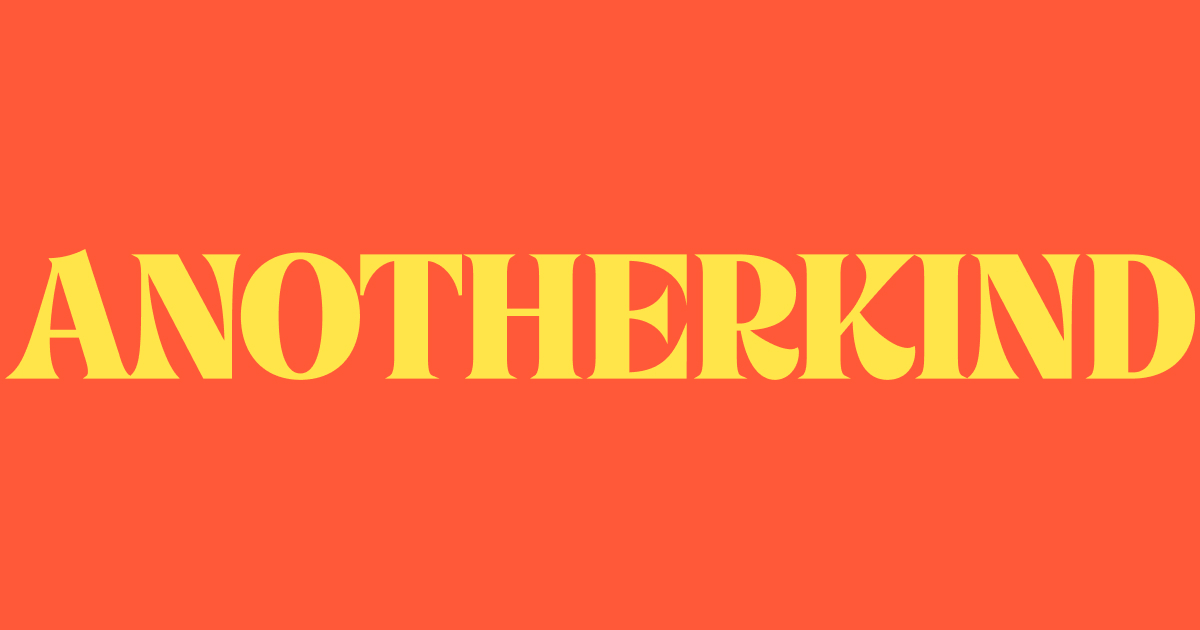
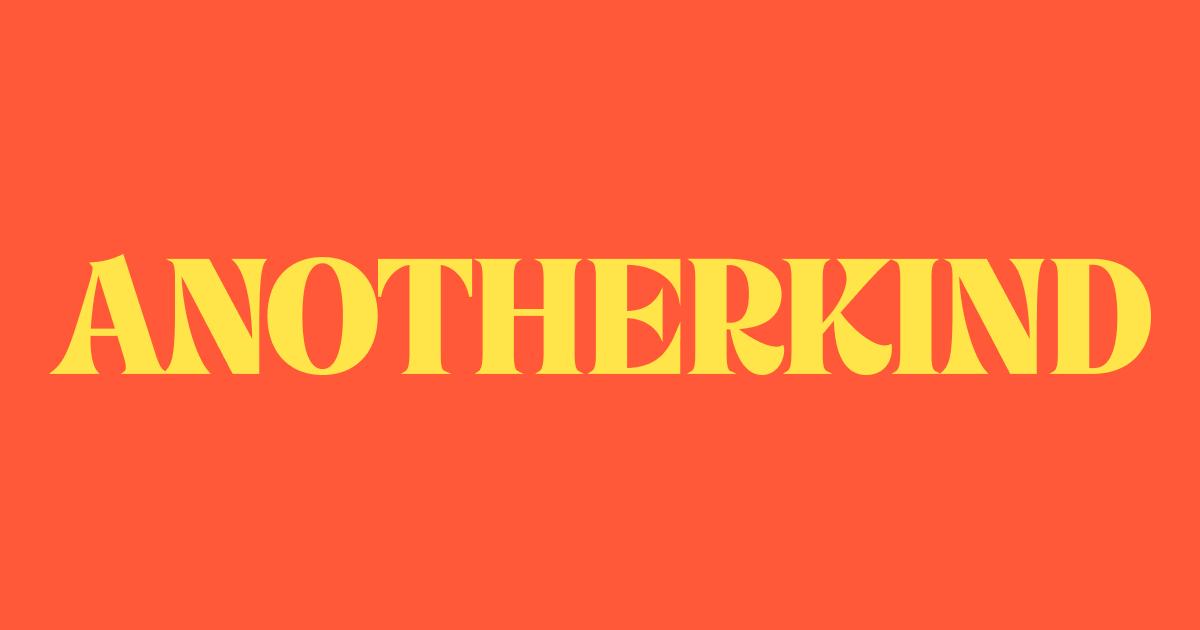
mob menu

Changed region(s): [[0.0, 0.3921, 1.0, 0.6032]]

diff --git a/pages/privacy.js b/pages/privacy.js
@@ -20,34 +20,63 @@ export default function Privacy() {
           initial="initial"
           animate="enter"
           exit="exit"
+          className="flex flex-wrap"
         >
-          <m.main className="pb-12 md:pb-16 xl:pb-24 pt-[100px] lg:pt-[110px] xl:pt-[120px]">
+          <m.main className="w-full pb-12 md:pb-16 xl:pb-24 pt-[100px] lg:pt-[110px] xl:pt-[120px]">
             <m.article variants={fade}>
               <Container>
-                <h1 className="text-[13.5vw] md:text-[9vw] lg:text-[8.5vw] leading-[0.8] md:leading-[0.8] lg:leading-[0.8] pb-0 w-[95%] mb-8 lg:mb-16 xl:mb-20">Privacy Policy</h1>
+                <h1 className="text-[13.5vw] md:text-[9vw] lg:text-[8.5vw] leading-[0.8] md:leading-[0.8] lg:leading-[0.8] pb-0 w-[95%] mb-12 md:mb-16 lg:mb-20">Privacy Policy</h1>
 
-                <div className="grid grid-cols-2 mb-[18vw] lg:mb-[10vw]">
-                  <div className="col-span-2 lg:col-span-1 mb-5 lg:mb-0">
-                    <div className="relative overflow-hidden rounded-2xl">
-                      <ImageScale image="/images/journal/journal-inner.jpg" w={1297} h={930} />
-                    </div>
-                  </div>
-                  <div className="col-span-2 lg:col-span-1">
-                    <div className="content w-[90%] lg:w-[65%] lg:max-w-[520px] lg:mx-auto text-lg/[1.28] lg:text-xl/[1.28] break-words">
-                      <p>30.09.2022</p>
-                      <p>The Greyfriar&rsquo;s project is a labour of love for PRB&rsquo;s conservation specialists Lucy Wilson, Joe Player and Joris Vreeswijk Working with Heritage Lincolnshire, City of Lincoln Council and the entire design team, planning and scheduled monument consent have been secured for this beautiful 13th century friary in Lincoln.</p>
-                      
-                      <p>It&rsquo;s been amazing, as always, working with Sarah Sorrell BSc (Hons) C.Build.E MCABE to ensure that inclusivity and accessibility were absolutely fundamental to the design; promoting accessible heritage for all.</p>
-                      
-                      <p>We loved contributing to the latest edition of Context - issued by the . Read more about the approach here: <a href="https://ihbconline.co.uk/context/173/index.html" className="underline" target="_blank" rel="noopener noreferrer">https://ihbconline.co.uk/context/173/index.html</a></p>
-                    </div>
+                <div className="mb-[18vw] lg:mb-[10vw] w-full">
+                  <div className="content w-[90%] lg:w-[72%] lg:max-w-[1250px] text-base/[1.28] lg:text-lg/[1.28] break-words">
+                    <h2>Introduction</h2>
+                    <p>This is the Website Privacy Policy (“Website Policy”) for Player Robert Bell Architects Ltd (“PRB”).</p>
+                    
+                    <p>PRB respects your privacy and is committed to protecting your personal data. Our Website Policy applies when you visit our website as well as when we are in contact with you in other ways - this may be in your capacity as an individual or as director, shareholder, partner, employee or representative of a company or organisation.</p>
+                    
+                    <p>It sets out how we look after your personal data when you visit our website; your privacy rights; and how the law protects you. Our Website Policy does not apply to personal data you might provide to us, or which we might collect, in the context of providing architectural services to you.</p>
+
+                    <h2>Important Information</h2>
+                    <p>This is the Website Privacy Policy (“Website Policy”) for Player Robert Bell Architects Ltd (“PRB”).</p>
+                    
+                    <p>PRB respects your privacy and is committed to protecting your personal data. Our Website Policy applies when you visit our website as well as when we are in contact with you in other ways - this may be in your capacity as an individual or as director, shareholder, partner, employee or representative of a company or organisation.</p>
+                    
+                    <p>It sets out how we look after your personal data when you visit our website; your privacy rights; and how the law protects you. Our Website Policy does not apply to personal data you might provide to us, or which we might collect, in the context of providing architectural services to you.</p>
+
+                    <h2>How else we use your data</h2>
+                    <p>This is the Website Privacy Policy (“Website Policy”) for Player Robert Bell Architects Ltd (“PRB”).</p>
+                    
+                    <p>PRB respects your privacy and is committed to protecting your personal data. Our Website Policy applies when you visit our website as well as when we are in contact with you in other ways - this may be in your capacity as an individual or as director, shareholder, partner, employee or representative of a company or organisation.</p>
+                    
+                    <p>It sets out how we look after your personal data when you visit our website; your privacy rights; and how the law protects you. Our Website Policy does not apply to personal data you might provide to us, or which we might collect, in the context of providing architectural services to you.</p>
+
+                    <h2>Introduction</h2>
+                    <p>This is the Website Privacy Policy (“Website Policy”) for Player Robert Bell Architects Ltd (“PRB”).</p>
+                    
+                    <p>PRB respects your privacy and is committed to protecting your personal data. Our Website Policy applies when you visit our website as well as when we are in contact with you in other ways - this may be in your capacity as an individual or as director, shareholder, partner, employee or representative of a company or organisation.</p>
+                    
+                    <p>It sets out how we look after your personal data when you visit our website; your privacy rights; and how the law protects you. Our Website Policy does not apply to personal data you might provide to us, or which we might collect, in the context of providing architectural services to you.</p>
+
+                    <h2>Important Information</h2>
+                    <p>This is the Website Privacy Policy (“Website Policy”) for Player Robert Bell Architects Ltd (“PRB”).</p>
+                    
+                    <p>PRB respects your privacy and is committed to protecting your personal data. Our Website Policy applies when you visit our website as well as when we are in contact with you in other ways - this may be in your capacity as an individual or as director, shareholder, partner, employee or representative of a company or organisation.</p>
+                    
+                    <p>It sets out how we look after your personal data when you visit our website; your privacy rights; and how the law protects you. Our Website Policy does not apply to personal data you might provide to us, or which we might collect, in the context of providing architectural services to you.</p>
+
+                    <h2>How else we use your data</h2>
+                    <p>This is the Website Privacy Policy (“Website Policy”) for Player Robert Bell Architects Ltd (“PRB”).</p>
+                    
+                    <p>PRB respects your privacy and is committed to protecting your personal data. Our Website Policy applies when you visit our website as well as when we are in contact with you in other ways - this may be in your capacity as an individual or as director, shareholder, partner, employee or representative of a company or organisation.</p>
+                    
+                    <p>It sets out how we look after your personal data when you visit our website; your privacy rights; and how the law protects you. Our Website Policy does not apply to personal data you might provide to us, or which we might collect, in the context of providing architectural services to you.</p>
                   </div>
                 </div>
               </Container>
             </m.article>
           </m.main>
         
-          <m.div variants={fade}>
+          <m.div variants={fade} className="w-full">
             <div className="overflow-hidden bg-off-white z-[10] relative pt-[10vw] lg:pt-[5vw]">
               <Footer />
             </div>

diff --git a/components/header.js b/components/header.js
@@ -40,8 +40,8 @@ export default function Header({ sunny }) {
                         className="w-full"
                       >
                         <m.div style={{ rotate: rotate }} className="mx-auto">
-                          <Link href="/" aria-label="Navigate to the home page" className={`block mx-auto relative`}>
-                            <SunnyIcon className={`w-[36px] xl:w-[48px] inset-0 text-orange opacity-100`} />
+                          <Link href="/" aria-label="Navigate to the home page" className={`mx-auto relative group`}>
+                            <SunnyIcon className={`w-[36px] xl:w-[48px] inset-0 text-orange opacity-100 transition-transform ease-ak duration-[600ms] group-hover:rotate-[360deg]`} />
                           </Link>
                         </m.div>
                       </m.div>
@@ -56,8 +56,12 @@ export default function Header({ sunny }) {
                         key="nosunny"
                       >
                         <div className="mx-auto">
-                          <Link href="/" aria-label="Navigate to the home page" className={`block mx-auto relative`}>
-                            <LogoIcon className={`w-[200px] lg:w-[210px] xl:w-[270px] 2xl:w-[300px] inset-0 text-orange opacity-100`} />
+                          <Link href="/" aria-label="Navigate to the home page" className={`block mx-auto relative group`}>
+                            <LogoIcon className={`w-[200px] lg:w-[210px] xl:w-[270px] 2xl:w-[300px] inset-0 text-orange opacity-100 transition-transform ease-ak duration-[600ms] group-hover:translate-y-[150%]`} />
+
+                            <div className="absolute inset-0 flex items-center justify-center">
+                              <SunnyIcon className={`w-[36px] xl:w-[48px] inset-0 text-orange opacity-100 transition-transform ease-ak duration-[600ms] group-hover:rotate-[360deg] translate-y-full group-hover:translate-y-0`} />
+                            </div>
                           </Link>
                         </div>
                       </m.div>

diff --git a/components/fancyLink.js b/components/fancyLink.js
@@ -2,10 +2,12 @@ import Link from 'next/link'
 
 export default function FancyLink( {destination, a11yText, label, className, active} ) {
   return (
-    <Link href={destination} aria-label={a11yText} className={`${className} relative`}>
-      <span className="block relative z-[1]">{label}</span>
+    <Link href={destination} aria-label={a11yText} className={`${className} relative group`}>
+      <span className="block relative z-[2]">{label}</span>
       
-      <span className={`${active ? 'w-full opacity-100 rotate-2' : 'w-0 opacity-0 rotate-0' } transition-all ease-in-out duration-[550ms] z-[0] h-[10px] bg-orange absolute bottom-[-2px] left-0 right-0`}></span>
+      <span className={`${active ? 'w-full opacity-100 rotate-2' : 'w-0 opacity-0 rotate-0' } transition-ak ease-in-out duration-[350ms] z-[1] h-[10px] bg-orange absolute bottom-[-2px] left-0 right-0`}></span>
+
+      <span className={`${active ? 'w-full opacity-100 rotate-2' : 'w-0 group-hover:w-full opacity-100 rotate-0' } transition-ak ease-in-out duration-[350ms] z-[0] h-[10px] bg-white absolute bottom-[-2px] left-0 right-0`}></span>
     </Link>
   )
 }

diff --git a/pages/journal/slug.js b/pages/journal/slug.js
@@ -22,8 +22,9 @@ export default function JournalSlug() {
           initial="initial"
           animate="enter"
           exit="exit"
+          className="flex flex-wrap"
         >
-          <m.main className="pb-12 md:pb-16 xl:pb-24 pt-[100px] lg:pt-[110px] xl:pt-[120px]">
+          <m.main className="pb-12 md:pb-16 xl:pb-24 pt-[100px] lg:pt-[110px] xl:pt-[120px] w-full">
             <m.article variants={fade}>
               <Container>
                 <span className={`inline-block px-[9px] md:px-[13px] pt-[7px] md:pt-[9px] pb-[5px] md:pb-[7px] rounded-full font-mono uppercase text-[8px] md:text-[10px] leading-none mb-3 lg:mb-5 bg-orange text-off-white`}>Project News</span>
@@ -95,7 +96,7 @@ export default function JournalSlug() {
             </m.article>
           </m.main>
         
-          <m.div variants={fade}>
+          <m.div variants={fade} className="w-full">
             <div className="overflow-hidden bg-off-white z-[10] relative pt-[10vw] lg:pt-[5vw]">
               <Footer />
             </div>

diff --git a/pages/team.js b/pages/team.js
@@ -2,7 +2,7 @@ import Layout from '@/components/layout'
 import Footer from '@/components/footer'
 import Container from '@/components/container'
 import { fade, reveal } from '@/helpers/transitions'
-import { LazyMotion, domAnimation, m } from 'framer-motion'
+import { LazyMotion, domMax, m } from 'framer-motion'
 import { NextSeo } from 'next-seo'
 import SunnyNoRaysIcon from "@/icons/sunny-no-rays.svg";
 import SunnyIcon from "@/icons/sunny.svg";
@@ -16,7 +16,7 @@ export default function Team() {
     <Layout>
       <NextSeo title="Team" />
 
-      <LazyMotion features={domAnimation}>
+      <LazyMotion features={domMax}>
         <m.div
           initial="initial"
           animate="enter"

diff --git a/pages/_app.js b/pages/_app.js
@@ -20,7 +20,7 @@ export default function App({ Component, pageProps }) {
 
         <Header sunny={router.asPath == '/'} />
 
-        <AnimatePresence mode="wait" initial={false}>
+        <AnimatePresence mode="wait" initial={true}>
           <Component {...pageProps} key={router.asPath} />
         </AnimatePresence>
       </div>

diff --git a/styles/_typography.css b/styles/_typography.css
@@ -13,7 +13,14 @@
   }
 
   & > h2, & > .h2 {
-    @apply text-2xl md:text-3xl;
+    @apply text-3xl lg:text-4xl;
+  }
+  & > h3, & > .h3 {
+    @apply text-2xl lg:text-3xl;
+  }
+
+  & > * + h2, & > * + .h2 {
+    @apply mt-[38px] lg:mt-[55px];
   }
 }
 

diff --git a/styles/main.css b/styles/main.css
@@ -72,3 +72,12 @@ html.lenis {
     min-height: 100dvh;
   }
 }
+
+
+.squiggle {
+  path {
+    
+    stroke: black;
+    stroke-width: 10px;
+  }
+}
